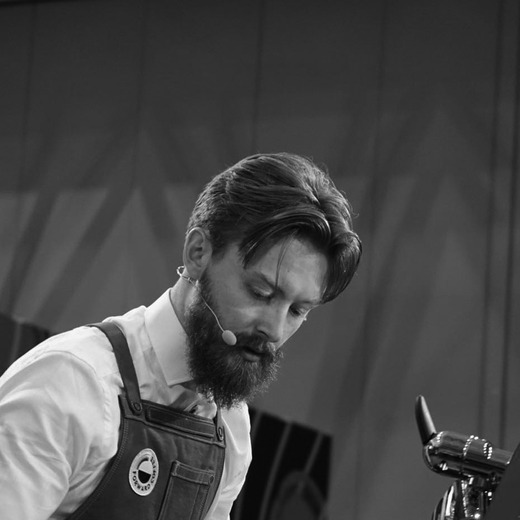
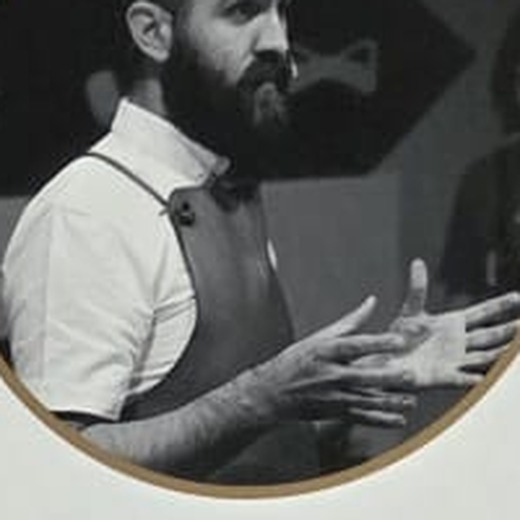
fix(wof): untangle crossed portraits, one photo per appearance
Validating against the printed mural revealed the site had photos crossed
between people, not just missing ones:

- Sam Neely was showing a cupping scene that the mural credits to
  Cole Torode 2020. Sam Neely now uses the Drive original (1080x1345).
- Cole Torode 2020 gets that cupping scene, which is his.
- Cole Torode 2019 was a podium shot of two people; now his own portrait.
- Dylan Siemens 2019 was reusing his 2017 photo; the mural gives each
  appearance its own image.
- Dane Oliver: my earlier match was wrong. 8-1.jpg from Drive is Sam Neely,
  not him (same apron logo, same headset, same shoot). Dane now comes from
  the mural.

Result: 23 cards, no image shared between different people.

diff --git a/index.html b/index.html
@@ -1314,7 +1314,7 @@
       </div>
     </div>
     <div class="wof-card">
-      <div class="wof-portrait"><img src="assets/cole-wbc-podium.jpg" alt="Cole Torode WBC 2019 Boston Third Place" /></div>
+      <div class="wof-portrait"><img src="assets/wof/cole-torode-2019.jpg" alt="Cole Torode WBC 2019 Boston Third Place" /></div>
       <div class="wof-card-info">
         <div class="wof-card-year">2019</div>
         <div class="name">Cole Torode</div>
@@ -1332,7 +1332,7 @@
       </div>
     </div>
     <div class="wof-card">
-      <div class="wof-portrait"><img src="assets/wof/dylan-siemens.jpg" alt="Dylan Siemens US Barista Championship Finalist 2019 Onyx Coffee Lab" /></div>
+      <div class="wof-portrait"><img src="assets/wof/dylan-siemens-2019.jpg" alt="Dylan Siemens US Barista Championship Finalist 2019 Onyx Coffee Lab" /></div>
       <div class="wof-card-info">
         <div class="wof-card-year">2019</div>
         <div class="name">Dylan Siemens</div>
@@ -1350,7 +1350,7 @@
       </div>
     </div>
     <div class="wof-card">
-      <div class="wof-portrait"><img src="assets/wof/cole-torode-canadian-2018.jpg" alt="Cole Torode Canada Barista Championship Finalist 2020" /></div>
+      <div class="wof-portrait"><img src="assets/wof/cole-torode-2020.jpg" alt="Cole Torode Canada Barista Championship Finalist 2020" /></div>
       <div class="wof-card-info">
         <div class="wof-card-year">2020</div>
         <div class="name">Cole Torode</div>
